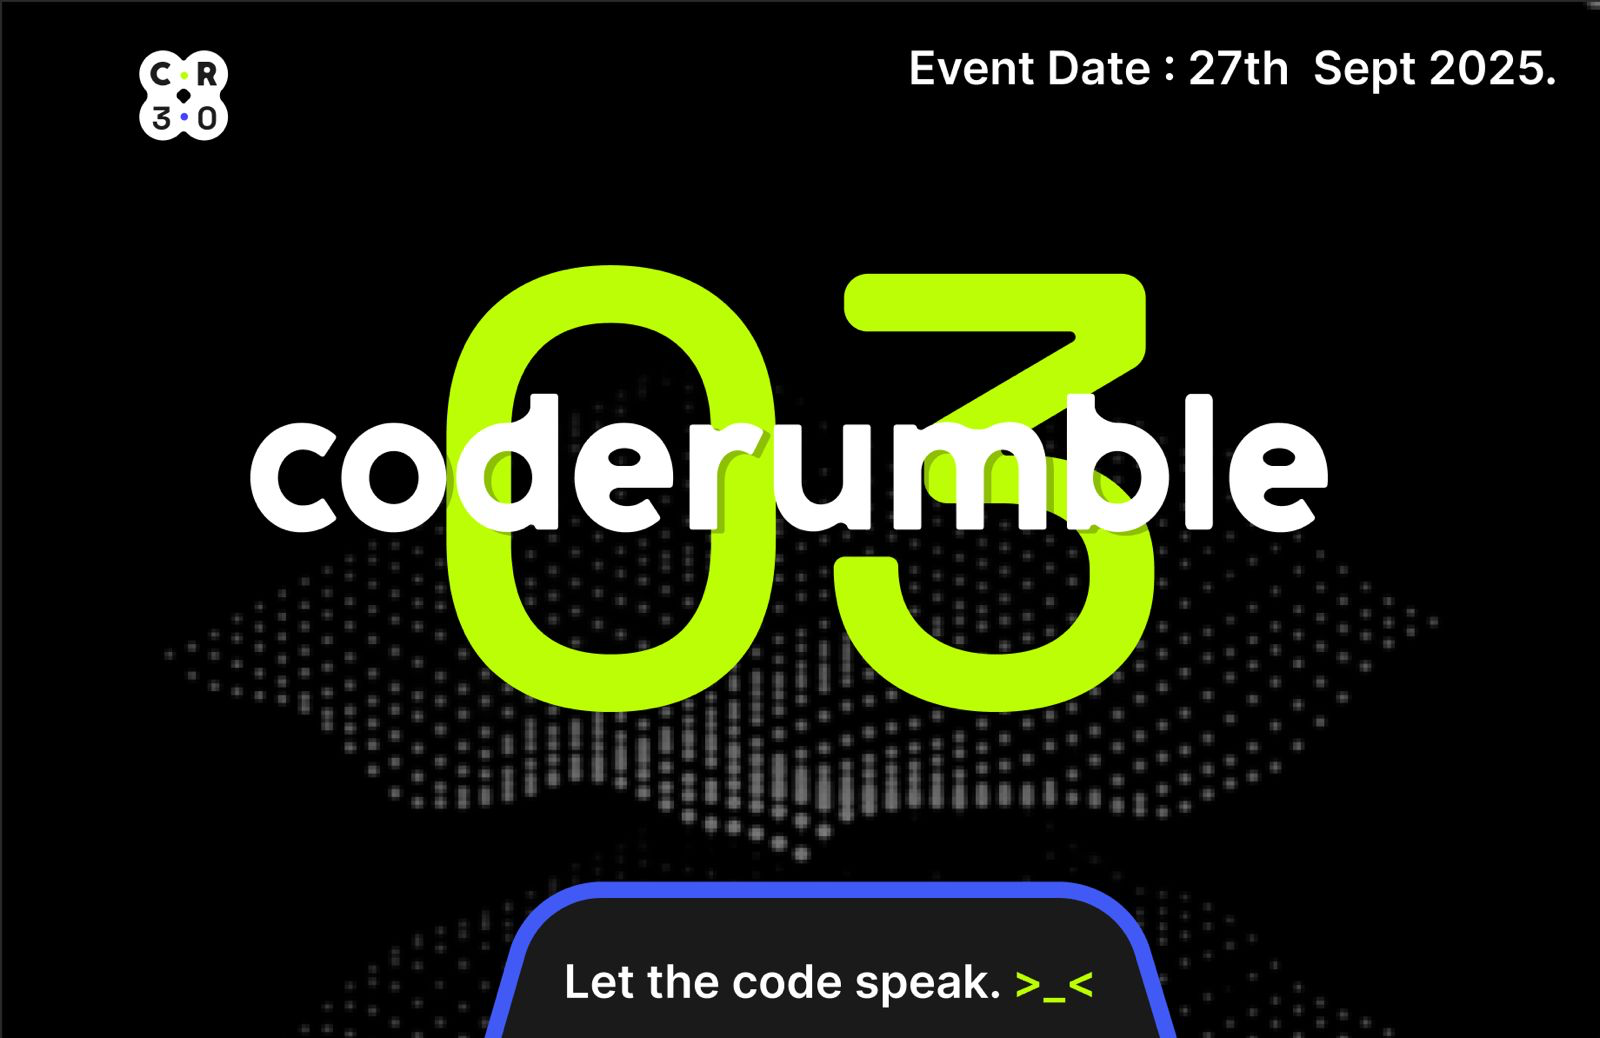
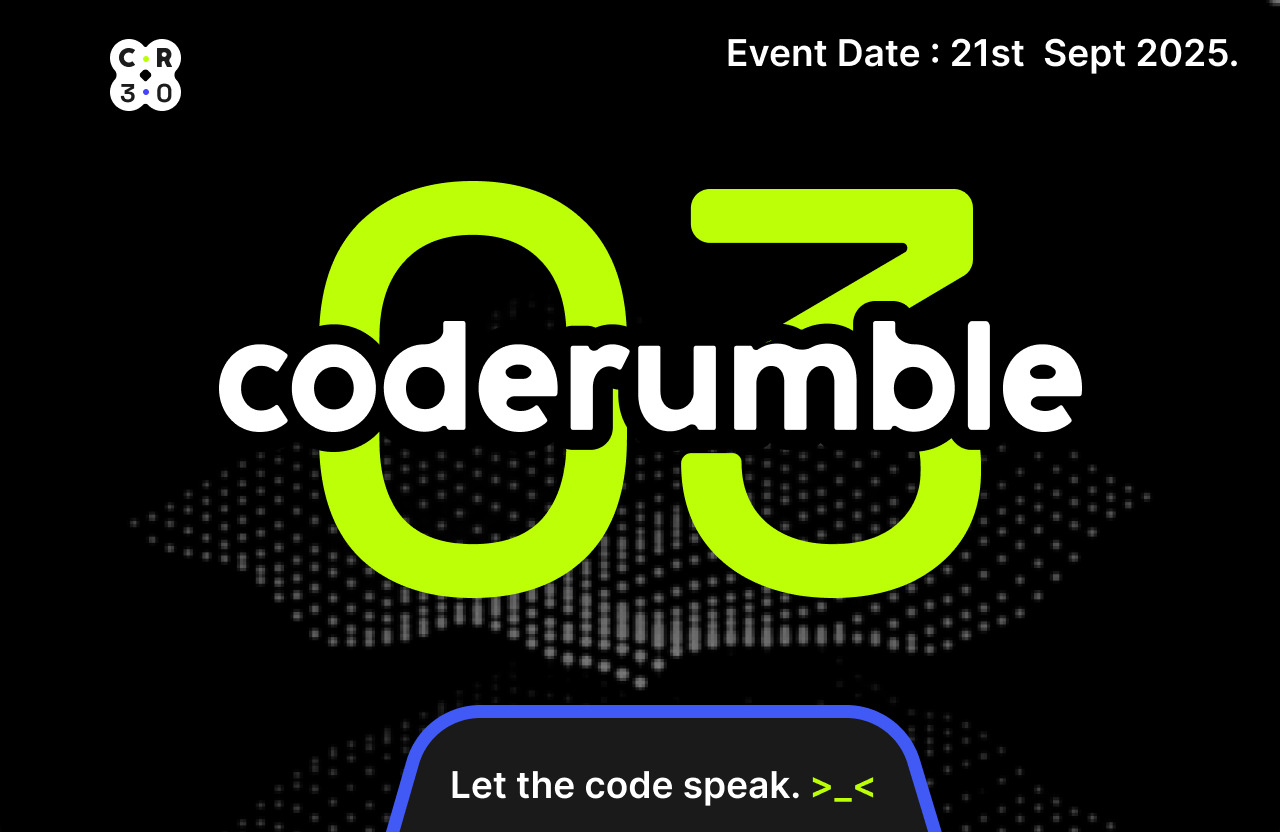
feat: added animation of curtain

diff --git a/src/app/globals.css b/src/app/globals.css
@@ -5,7 +5,7 @@
   --foreground: #171717;
 }
 
-@theme{
+@theme {
   --color-primary: #BCFF06;
   --color-secondary: #4159F5;
 }
@@ -26,6 +26,7 @@ body {
 .font-cocogoose {
   font-family: var(--font-cocogoose-pro);
 }
+
 .font-mabry {
   font-family: var(--font-mabry-pro);
 }
@@ -72,10 +73,12 @@ body {
     transform: scale(0) translate(-50%, -50%);
     opacity: 0.8;
   }
+
   50% {
     transform: scale(4) translate(-12.5%, -12.5%);
     opacity: 0.4;
   }
+
   100% {
     transform: scale(8) translate(-6.25%, -6.25%);
     opacity: 0;
@@ -84,23 +87,106 @@ body {
 
 /* Recommended: Pulse with Scale */
 @keyframes pulse-glow {
-    0% {
-        transform: scale(1);
-        box-shadow: 0 0 0 0 rgba(163, 230, 53, 0.7);
-    }
-    40% {
-        transform: scale(1.02);
-        box-shadow: 0 0 0 8px rgba(163, 230, 53, 0.4);
-    }
-    70% {
-        box-shadow: 0 0 0 12px rgba(163, 230, 53, 0);
-    }
-    100% {
-        transform: scale(1);
-        box-shadow: 0 0 0 0 rgba(163, 230, 53, 0);
-    }
+  0% {
+    transform: scale(1);
+    box-shadow: 0 0 0 0 rgba(163, 230, 53, 0.7);
+  }
+
+  40% {
+    transform: scale(1.02);
+    box-shadow: 0 0 0 8px rgba(163, 230, 53, 0.4);
+  }
+
+  70% {
+    box-shadow: 0 0 0 12px rgba(163, 230, 53, 0);
+  }
+
+  100% {
+    transform: scale(1);
+    box-shadow: 0 0 0 0 rgba(163, 230, 53, 0);
+  }
 }
 
 .pulse-button {
-    animation: pulse-glow 1.6s infinite;
+  animation: pulse-glow 1.6s infinite;
+}
+
+.curtain {
+  position: absolute;
+  left: 0;
+  right: 0;
+  background: #ffffff;
+  z-index: 2;
+  --bar-height-final: 20px;
+  /* final bar height on mobile */
+  will-change: top, height, transform;
+}
+
+/* Top bar: start joined at center covering top half, then move up and shrink */
+.curtain-top {
+  /* initial: joined at center */
+  top: 50%;
+  height: 20%;
+  transform: translateY(-100%);
+  animation: curtain-top-reveal 1000ms ease-out 20ms forwards;
+}
+
+/* Bottom bar: start joined at center covering bottom half, then move down and shrink */
+.curtain-bottom {
+  /* initial: joined at center */
+  top: 50%;
+  height: 20%;
+  transform: translateY(0);
+  animation: curtain-bottom-reveal 1000ms ease-out 20ms forwards;
+}
+
+@keyframes curtain-top-reveal {
+  0% {
+    top: 50%;
+    height: 30%;
+    transform: translateY(-100%);
+  }
+
+  100% {
+    top: 0;
+    height: var(--bar-height-final);
+    transform: translateY(0);
+  }
+}
+
+@keyframes curtain-bottom-reveal {
+  0% {
+    top: 50%;
+    height: 30%;
+    transform: translateY(0);
+  }
+
+  100% {
+    top: calc(100% - var(--bar-height-final));
+    height: var(--bar-height-final);
+    transform: translateY(0);
+  }
+}
+
+@media (min-width: 1024px) {
+  .curtain {
+    --bar-height-final: 28px;
+    /* final bar height on large screens */
+  }
+}
+
+@media (prefers-reduced-motion: reduce) {
+  .curtain-top {
+    top: 0;
+    height: var(--bar-height-final);
+    transform: none;
+    animation: none;
+  }
+
+  .curtain-bottom {
+    top: calc(100% - var(--bar-height-final));
+    height: var(--bar-height-final);
+    transform: none;
+    animation: none;
+  }
 }

diff --git a/src/components/sections/Main.tsx b/src/components/sections/Main.tsx
@@ -67,10 +67,10 @@ export default function Main() {
             {/* Logo and main content above DotMesh */}
             <div className="gap-10 lg:w-[70%] w-[94%] flex justify-center h-44 bg-amber-200/200 lg:mb-14 mb-40 flex-col lg:flex-row items-center min-w-[300px] z-10 relative">
               <Image className=" lg:w-[80%] w-[430px]" src={coderumble_white || "/placeholder.svg"} alt="Coderumble" priority />
-              <div className="flex w-[20%] flex-col h-full justify-between px-5 min-w-[100px]">
-                <div className="bg-white h-5 lg:h-7 w-full"></div>
-                <Image className="self-center" src={three || "/placeholder.svg"} alt="Coderumble" priority />
-                <div className="bg-white h-5 lg:h-7 w-full"></div>
+              <div className="relative overflow-hidden flex items-center justify-center w-[20%] min-w-[100px] px-5 h-full">
+                <Image className="z-[1]" src={three || "/placeholder.svg"} alt="Coderumble 3" priority />
+                <div className="curtain curtain-top pointer-events-none" aria-hidden="true" />
+                <div className="curtain curtain-bottom pointer-events-none" aria-hidden="true" />
               </div>
             </div>
 

diff --git a/src/app/page.tsx b/src/app/page.tsx
@@ -7,13 +7,13 @@ import ClientWrapper from "@/components/ClientWrapper"
 export const metadata = {
   metadataBase: new URL("https://www.code-rumble.in"),
   title: "Coderumble 3.0",
-  description: "Event Date: 27th Sept 2025. Let the code speak!",
+  description: "Event Date: 21st Sept 2025. Let the code speak!",
   icons: {
     icon: "/favicon.svg",
   },
   openGraph: {
     title: "Coderumble 3.0",
-    description: "Event Date: 27th Sept 2025. Let the code speak!",
+    description: "Event Date: 21st Sept 2025. Let the code speak!",
     url: "https://www.code-rumble.in/",
     siteName: "Coderumble",
     images: [
@@ -30,7 +30,7 @@ export const metadata = {
   twitter: {
     card: "summary_large_image",
     title: "Coderumble 3.0",
-    description: "Event Date: 27th Sept 2025. Let the code speak!",
+    description: "Event Date: 21st Sept 2025. Let the code speak!",
     images: ["/meta.png"],
   },
 }
